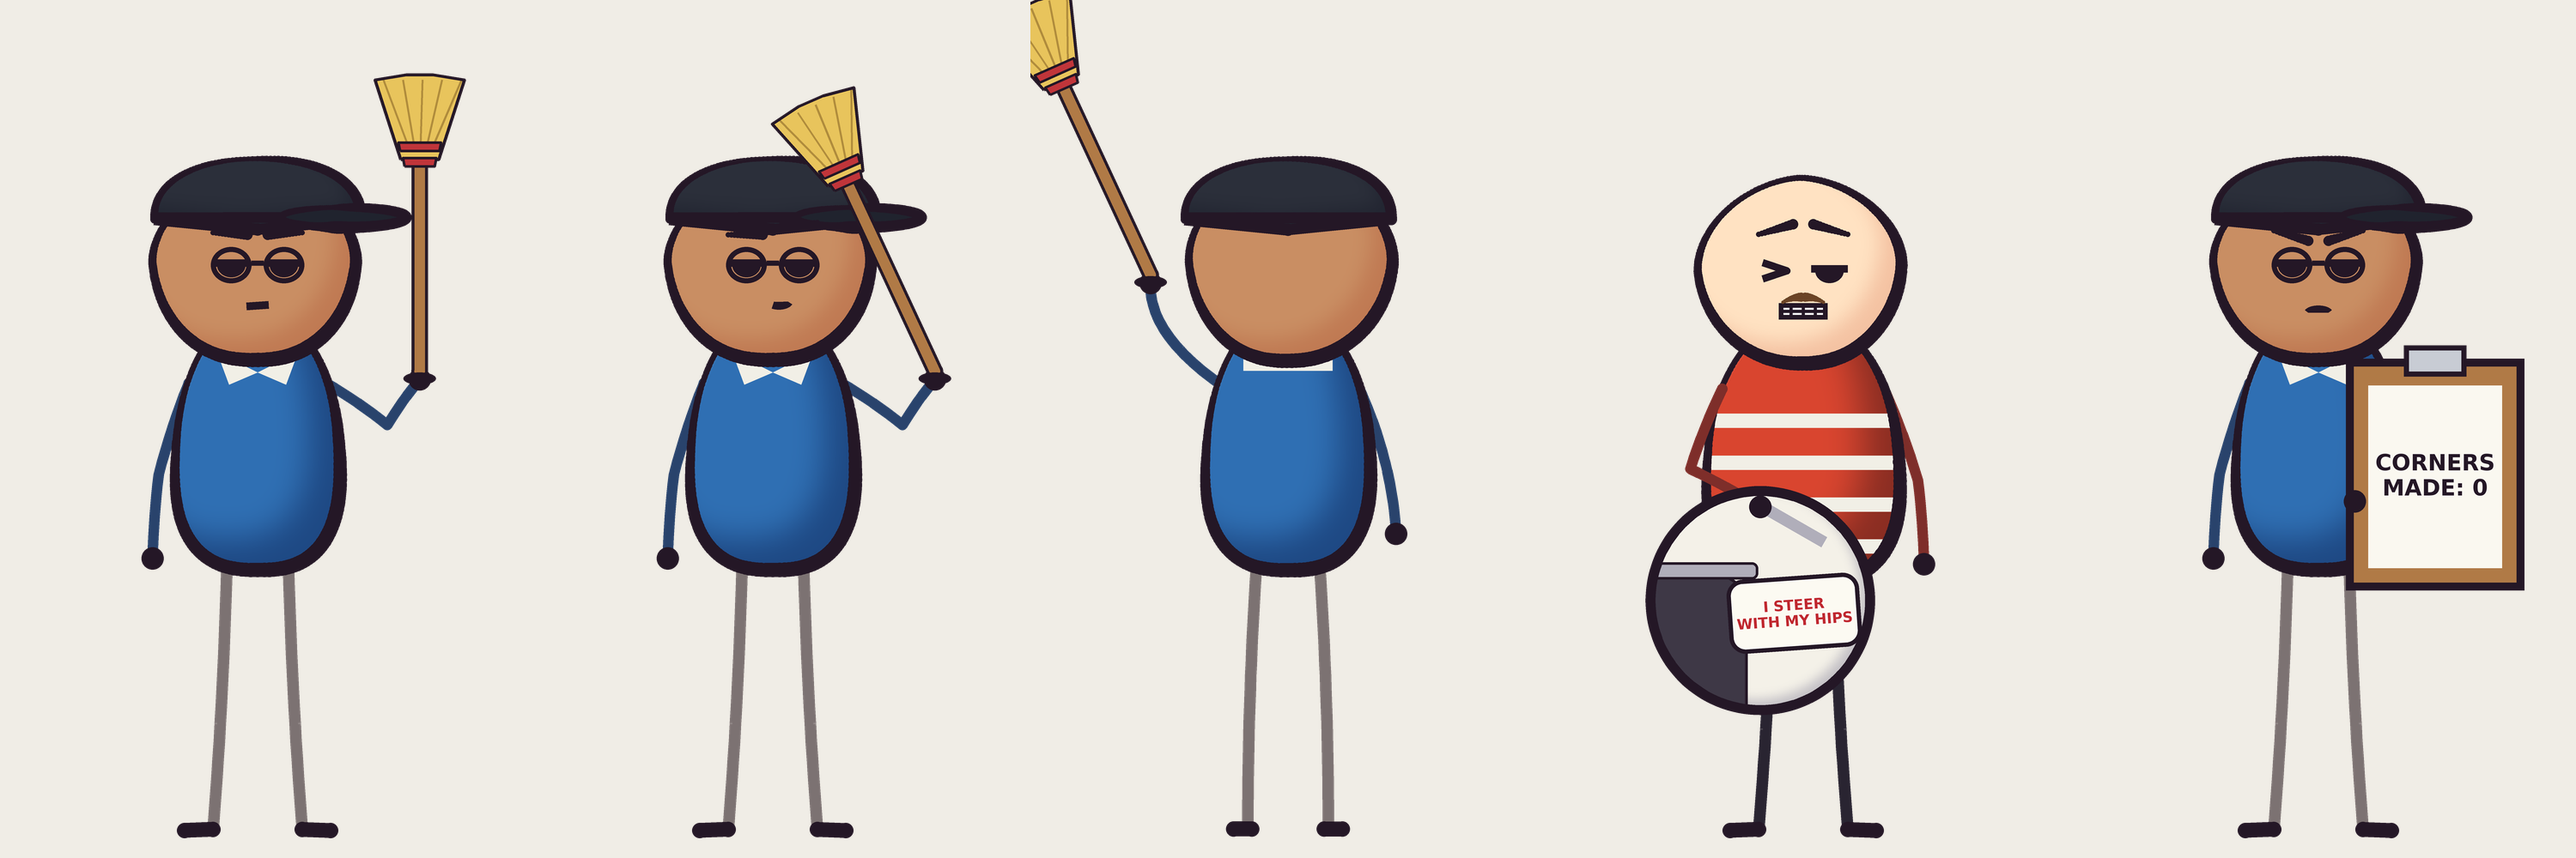
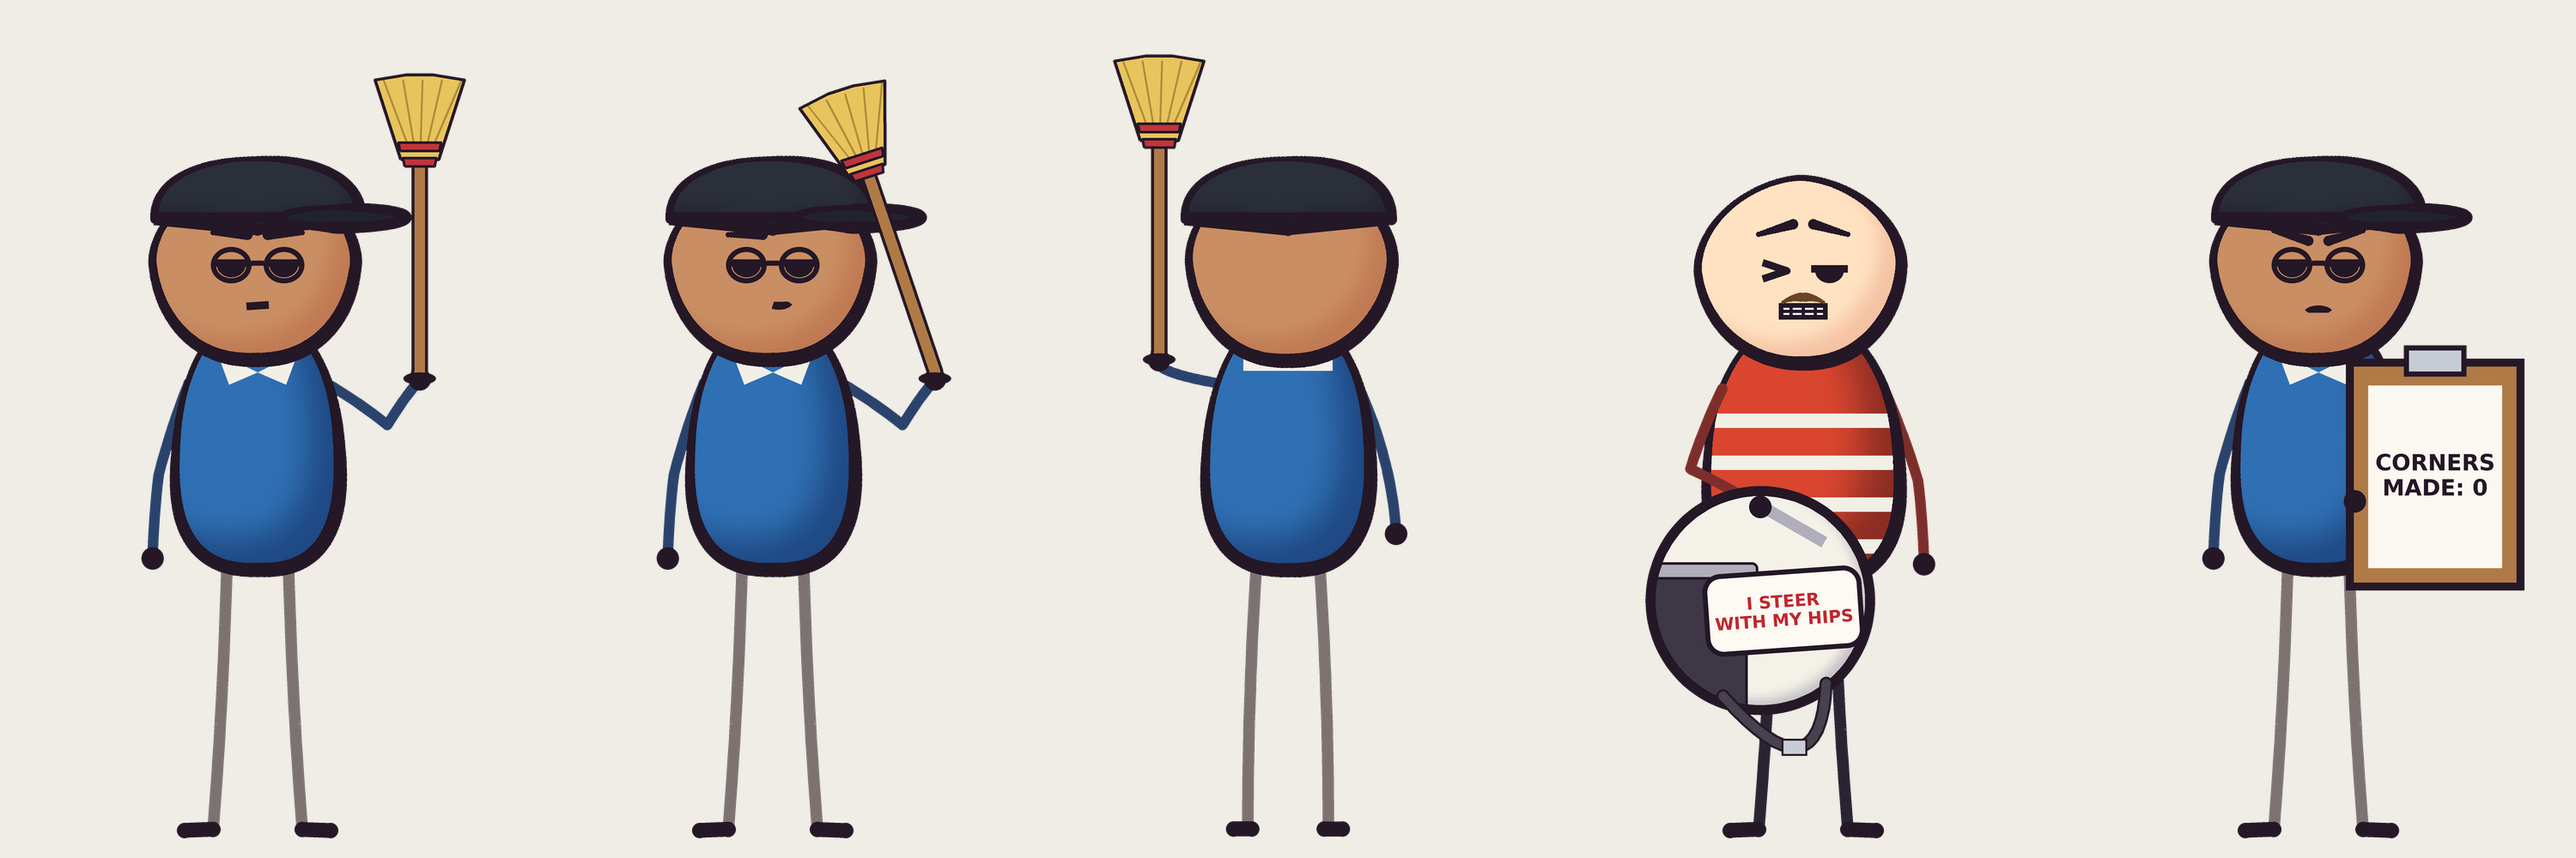
Bean props: chin strap, wider sticker, broom stays inside the card
Claude-Session: https://claude.ai/code/session_01CUE841jip3JiSfeXD1a8wE

diff --git a/characters/scripts/bean.py b/characters/scripts/bean.py
@@ -326,7 +326,7 @@ def draw_prop(C, kind, hand, u):
        'helmet' or 'helmet:<sticker text>' - an open-face helmet held by its edge, sticker large enough to read."""
     x, y = hand
     if kind.startswith('broom'):
-        tilt = {'broom_upright': 0, 'broom_tip_left': -24, 'broom_tip_right': 24}.get(kind)
+        tilt = {'broom_upright': 0, 'broom_tip_left': -18, 'broom_tip_right': 18}.get(kind)
         if tilt is None: tilt = float(kind.split(':', 1)[1]) if ':' in kind else 0.0
         return _broom(C, x, y, u, tilt)
     if kind.startswith('helmet'):
@@ -884,5 +884,8 @@ def _held_helmet(C, x, y, u, sticker):
     C.clip_layer(opening, circ)
     C.d.line([(px * S, py * S) for px, py in circ + circ[:1]], fill=INK, width=int(4 * S), joint='curve')
     C.d.line([((cx - 0.05 * a) * S, (cy - a + 4 * u) * S), ((cx + 0.6 * a) * S, (cy - 0.55 * a) * S)], fill=(176, 174, 186), width=int(6 * u * S))
-    if sticker: _sticker(C, cx + 0.32 * a, cy + 0.12 * a, 1.25 * a, 0.7 * a, sticker, rot=-4)
+    strap = [(cx - 0.35 * a, cy + 0.9 * a), (cx - 0.1 * a, cy + 1.32 * a), (cx + 0.35 * a, cy + 1.38 * a), (cx + 0.62 * a, cy + 0.78 * a)]
+    C.stroke(bend_path(strap[0], strap[2], strap[3], 16), 4.5 * u + 5, INK); C.stroke(bend_path(strap[0], strap[2], strap[3], 16), 4.5 * u, (70, 66, 78))   # chin strap
+    C.d.rectangle(((cx + 0.2 * a) * S, (cy + 1.3 * a) * S, (cx + 0.44 * a) * S, (cy + 1.46 * a) * S), fill=(200, 204, 212), outline=INK, width=int(2.4 * S))   # buckle
+    if sticker: _sticker(C, cx + 0.22 * a, cy + 0.1 * a, 1.5 * a, 0.78 * a, sticker, rot=-4)
     C.dot(x, y, 5.5 * u)

diff --git a/characters/scripts/props_sheet.py b/characters/scripts/props_sheet.py
@@ -8,7 +8,7 @@ I = dict(build='adult', skin='#c98e63', shirt='#2f6fb3', pants='#e8e2d0', hat='c
 D = dict(build='stout', skin='#ffe2c2', shirt='#d9452f', pants='#30343f', moustache='#6b4426', outfit=(('stripes', '#f1efe6'),), seed=4)
 ims = [character(arm_pose=('hang', 'palm'), prop='broom_upright', expr='neutral', **I),
        character(arm_pose=('hang', 'palm'), prop='broom_tip_left', expr='smug', **I),
-       turned('rear', pose=dict(handF=(140, 330)), prop='broom_tip_left', prop_hand='F', **I),
+       turned('rear', pose=dict(handF=(150, 420)), prop='broom_upright', prop_hand='F', **I),
        character(arm_pose=('hold', 'hang'), prop='helmet:I STEER WITH MY HIPS', expr='pained', **D),
        character(arm_pose=('hang', 'hold'), prop='clipboard:CORNERS MADE: 0', expr='stern', **I)]
 s = Image.new('RGBA', (600 * len(ims), 1000), (240, 237, 230, 255))
